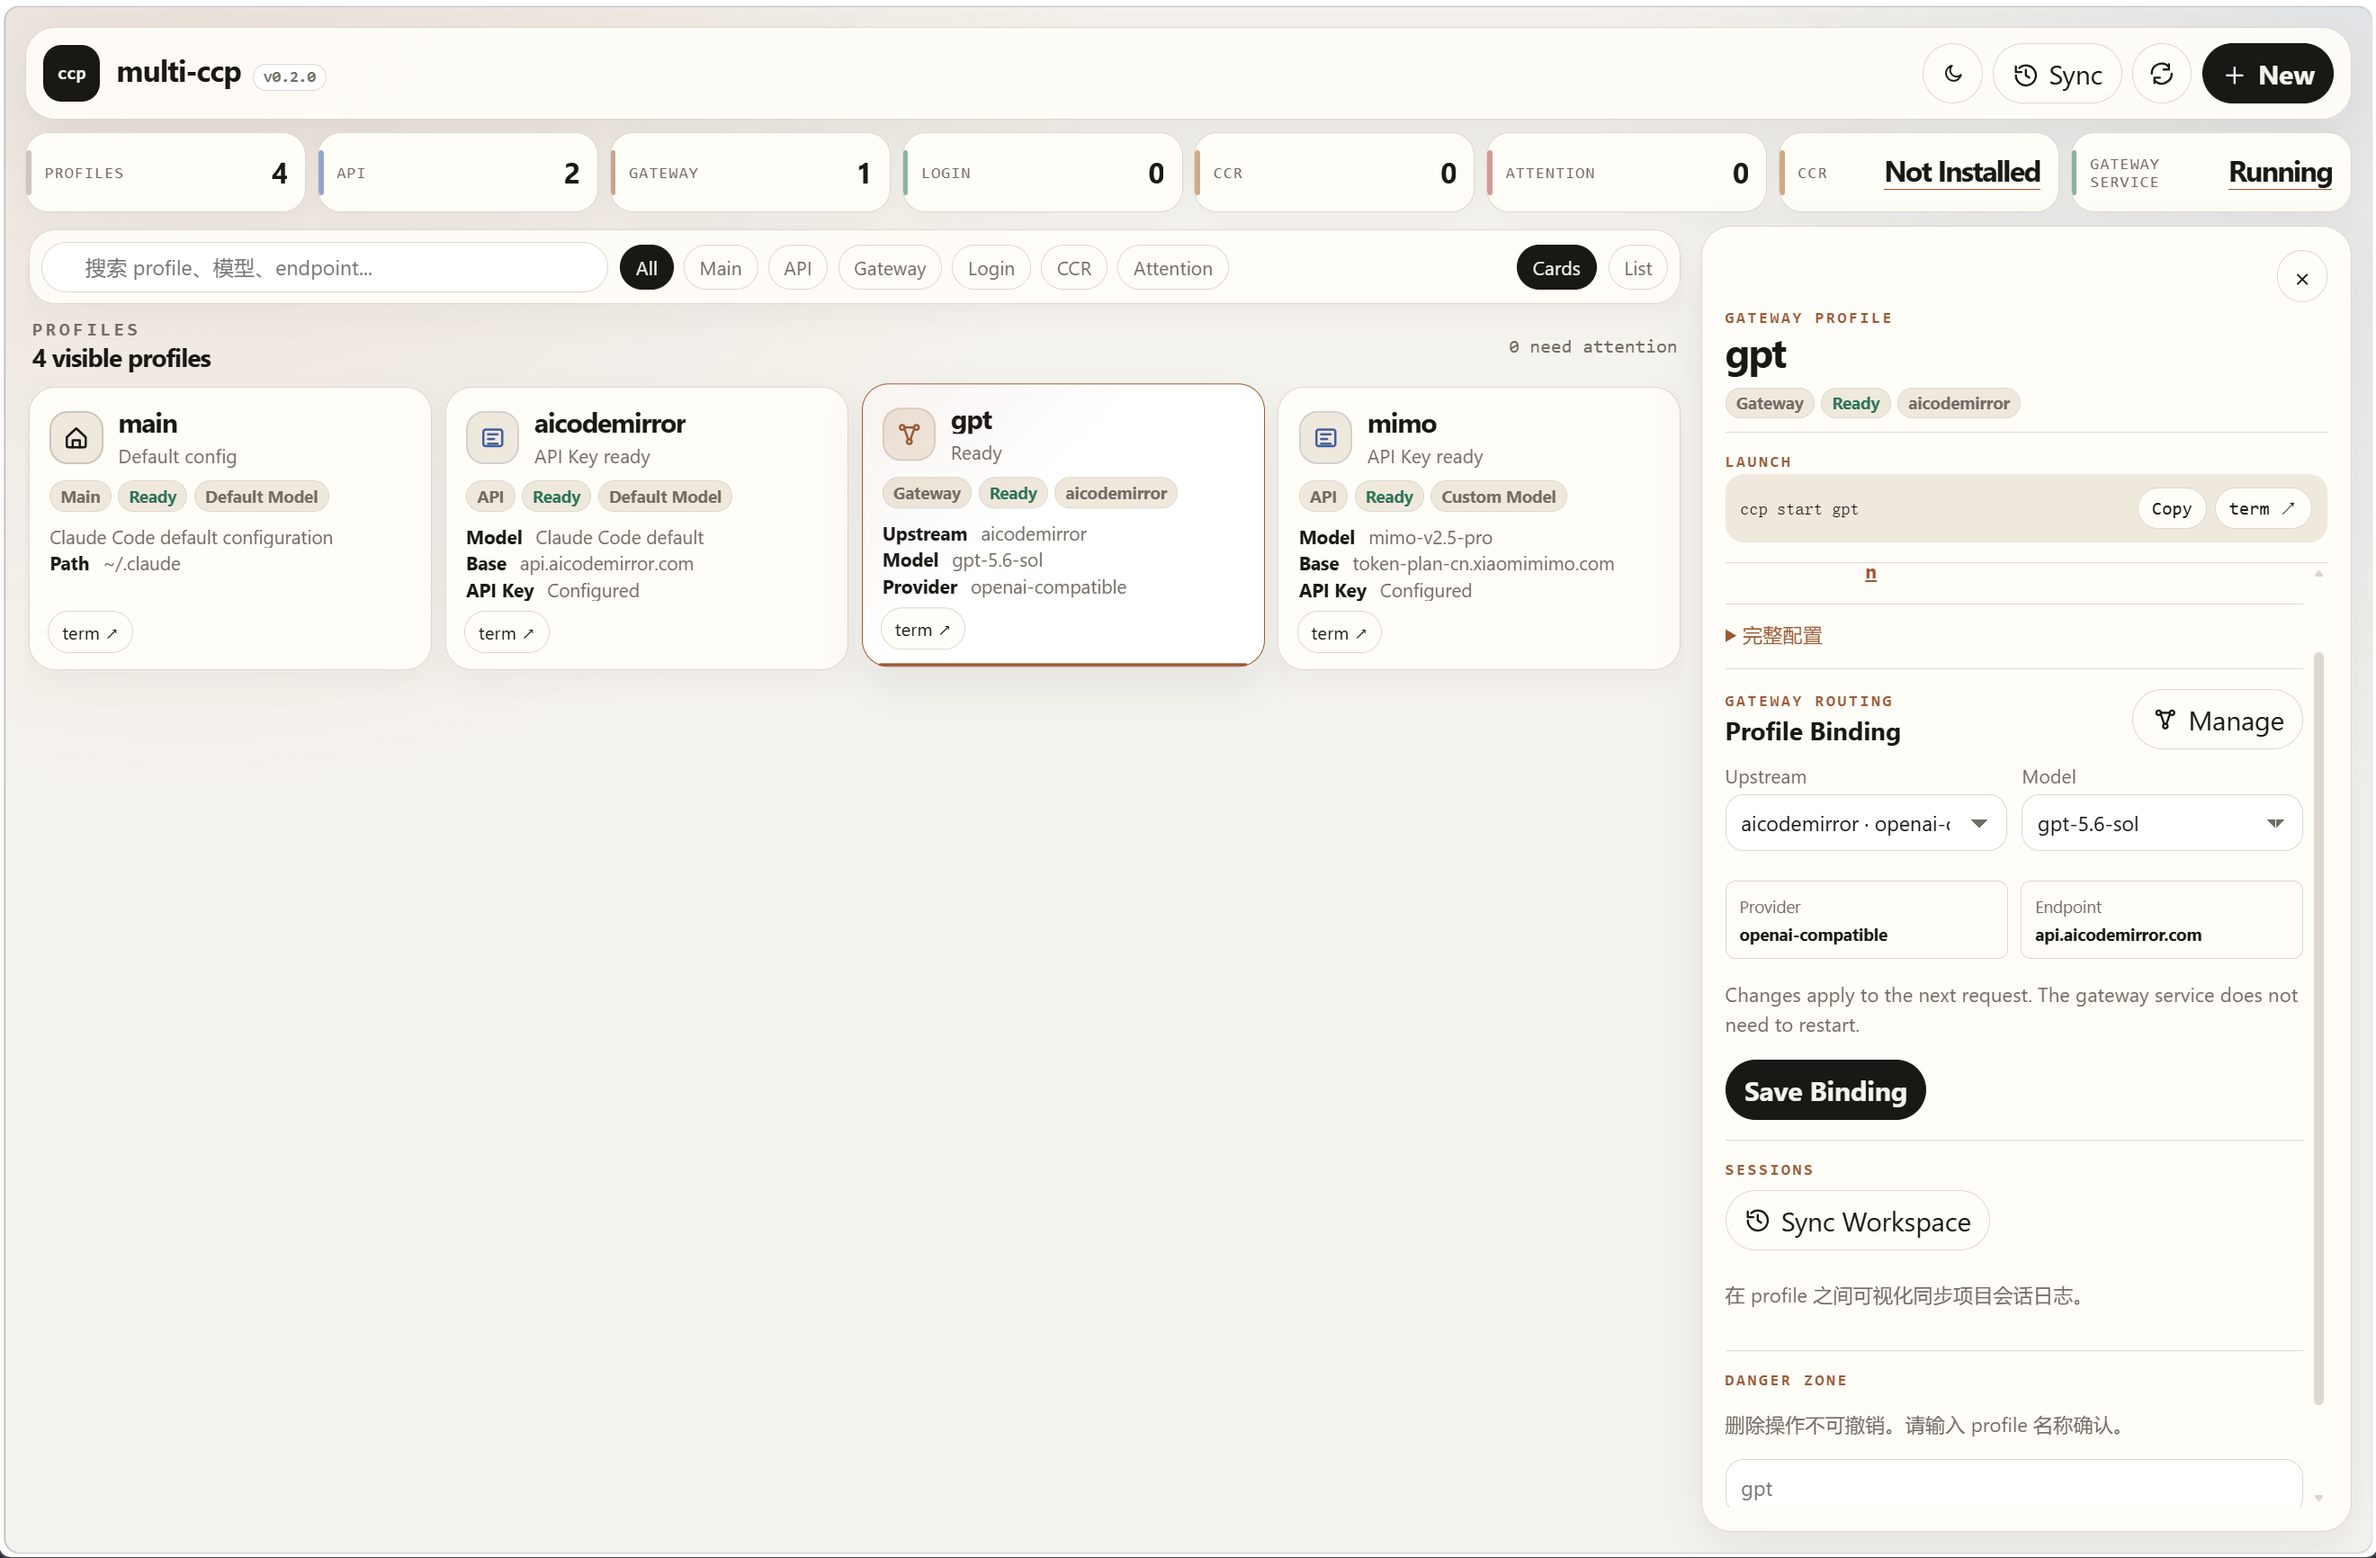
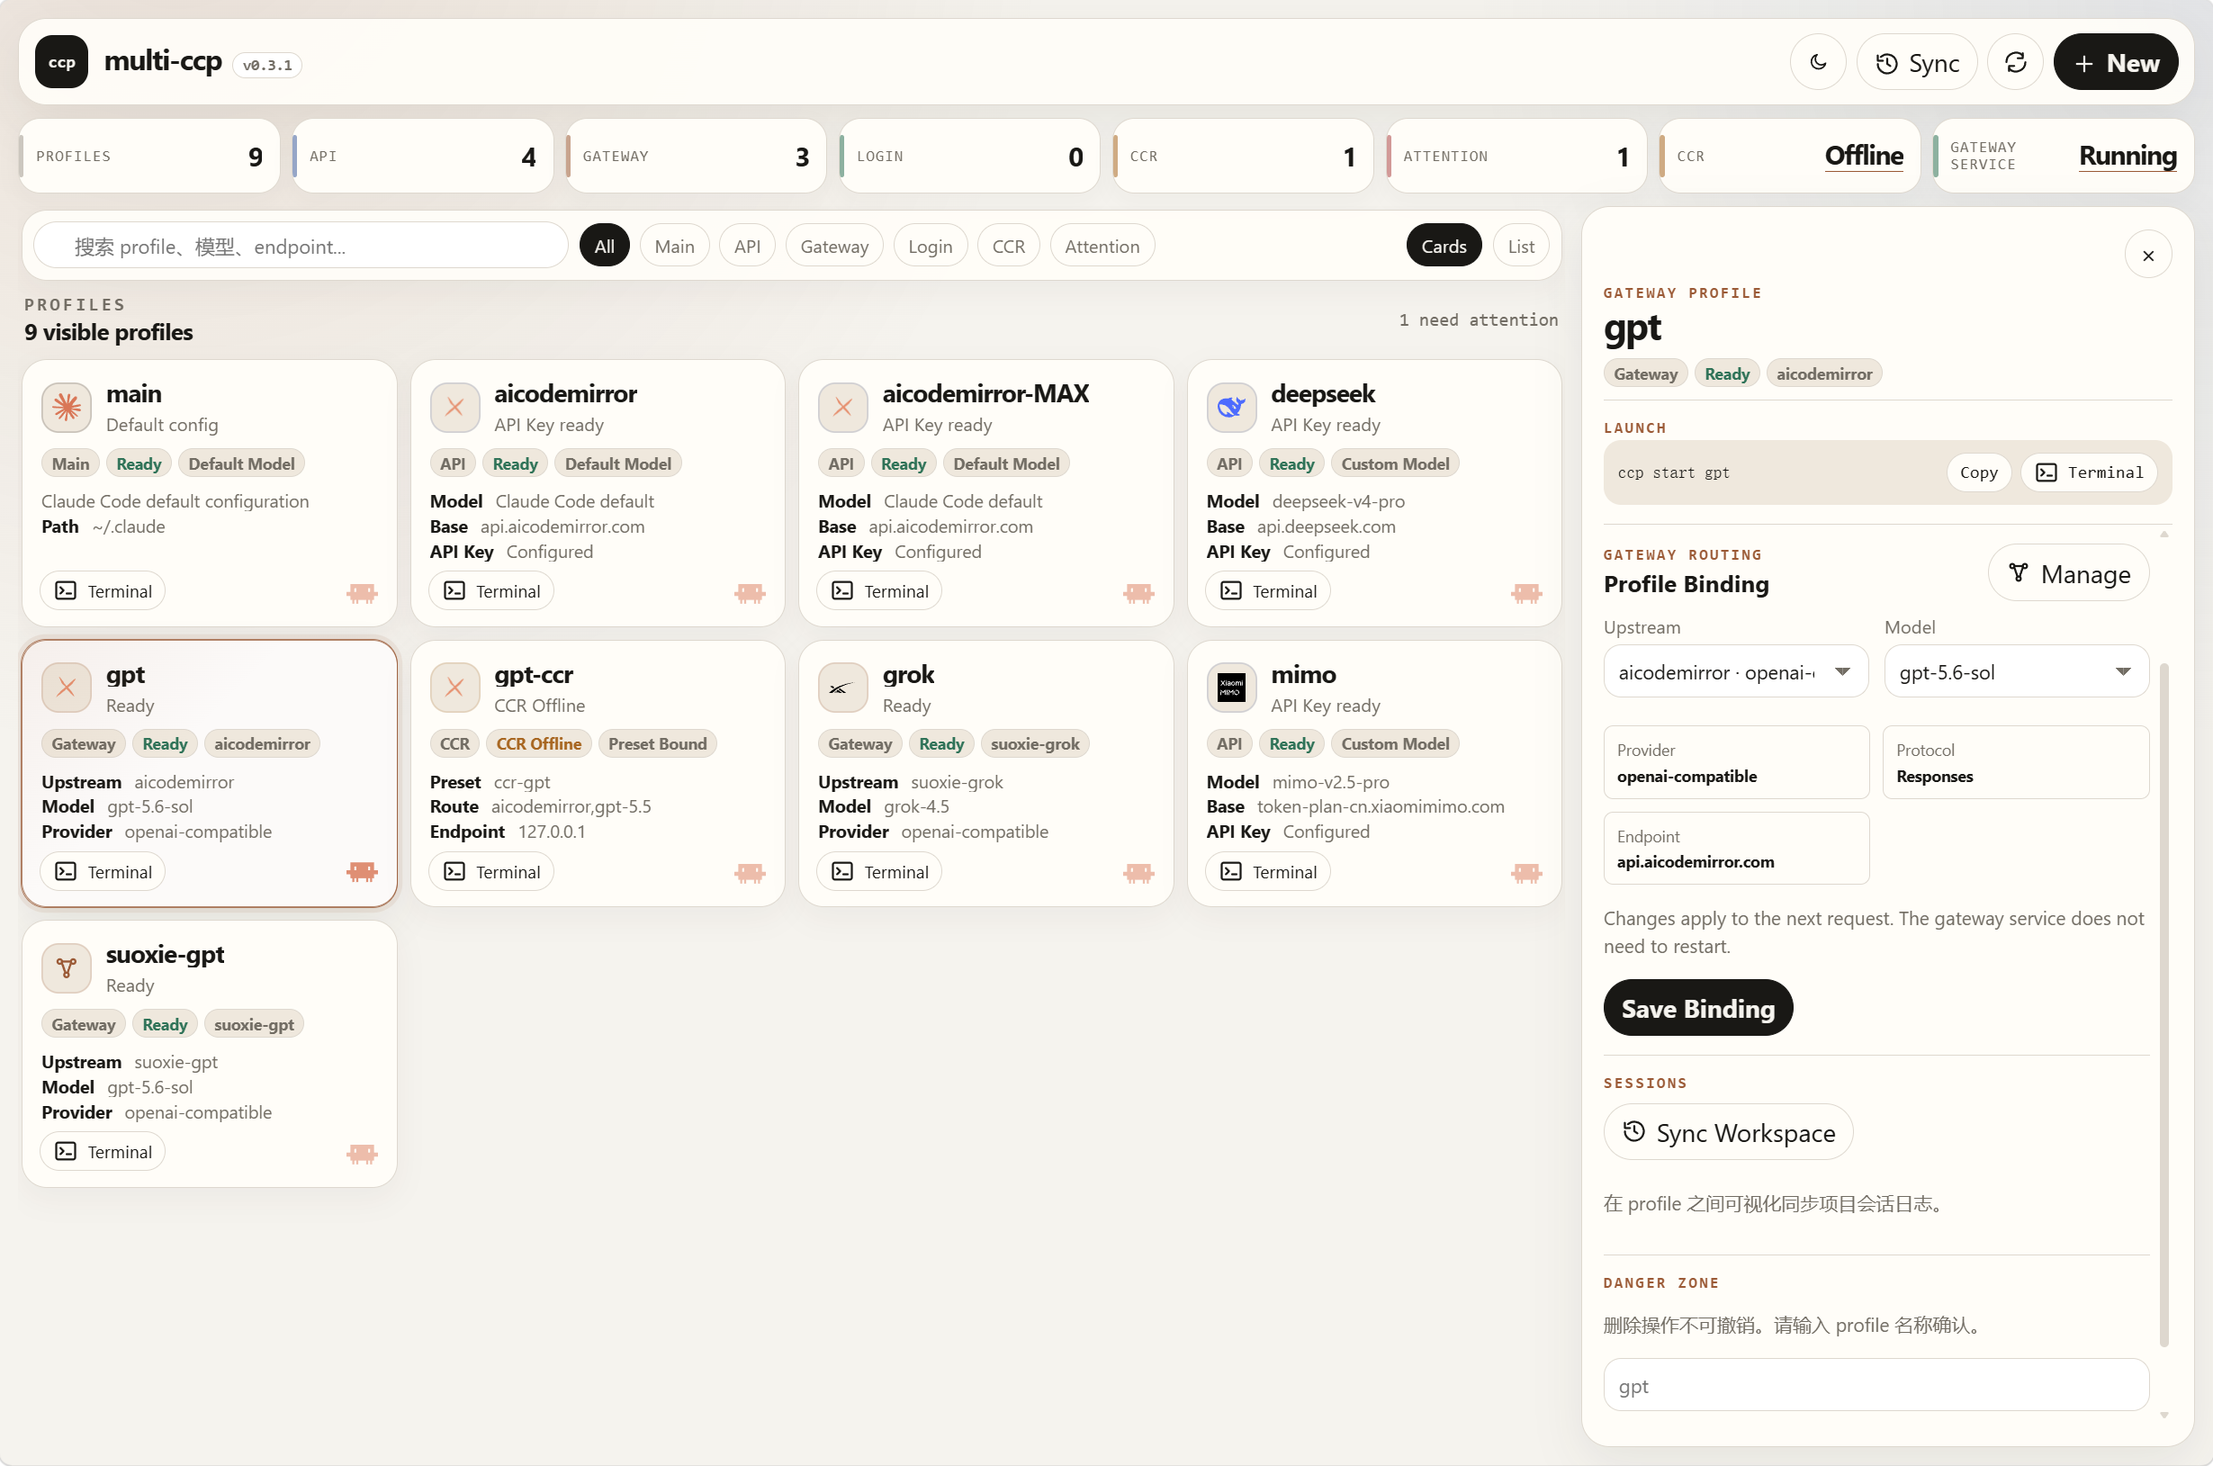
docs: md

diff --git a/README.md b/README.md
@@ -9,7 +9,7 @@ English | [简体中文](README.zh-CN.md)
 `multi-ccp` is a profile and session manager for Claude Code. It installs the `ccp` command and helps you run multiple Claude Code windows with fully isolated configuration directories, model providers, login state, and history.
 
 Use it when you want separate Claude Code sessions for work, personal projects, different API providers, or different model routes without manually switching environment variables or editing config files.
-
+![multi-ccp](docs/images/cli-ui.png)
 ![multi-ccp](docs/images/image.png)
 
 ## Features
@@ -23,7 +23,6 @@ Use it when you want separate Claude Code sessions for work, personal projects, 
 - Use the built-in gateway to run Claude Code against OpenAI or OpenAI-compatible Responses and Chat Completions providers.
 - Run multiple gateway profiles concurrently through one local process while keeping upstream URLs, models, credentials, tools, streams, and cancellation state isolated per request.
 - Sync historical Claude Code sessions between profiles or between `main` and a profile.
-- Open and inspect profile settings quickly from the terminal.
 
 ## Install
 
@@ -41,7 +40,7 @@ ccp help
 Update `multi-ccp`:
 
 ```bash
-npm update -g multi-ccp
+npm install -g multi-ccp@latest
 ```
 
 ## Quick Start
@@ -49,7 +48,7 @@ npm update -g multi-ccp
 Want the shortest path? Ask your AI assistant how to use `multi-ccp`. Copy this prompt:
 
 ```text
-How do I use multi-ccp to manage multiple Claude Code profiles?
+How do I use multi-ccp to manage multiple Claude Code profiles? Refer to the README: https://github.com/ASouthernCat/multi-ccp.
 ```
 
 Then continue with the examples below when you want the full command reference.
@@ -61,8 +60,6 @@ ccp ui
 ```
 
 The Web UI is a local companion for the CLI. It helps you inspect profiles, create preset-based profiles, edit profile settings, manage the shared gateway service and reusable upstreams, switch profile models, inspect redacted request logs, and open CCR management shortcuts.
-
-![multi-ccp](docs/images/cli-ui.png)
 
 Create a profile interactively:
 

diff --git a/README.zh-CN.md b/README.zh-CN.md
@@ -9,7 +9,7 @@
 `multi-ccp` 是一个 Claude Code profile 和历史会话管理工具。它会安装 `ccp` 命令，帮助你运行多个 Claude Code 会话窗口，并让每个窗口拥有独立隔离的配置目录、模型 provider、登录状态和历史记录。
 
 当你希望为工作、个人项目、不同 API provider、不同模型路由分别使用独立 Claude Code 会话时，可以使用 `multi-ccp`，无需手动切换环境变量或反复编辑配置文件。
-
+![multi-ccp](docs/images/cli-ui.png)
 ![multi-ccp](docs/images/image.png)
 
 ## 功能特性
@@ -23,7 +23,6 @@
 - 使用内置网关让 Claude Code 连接 OpenAI 或 OpenAI-compatible Responses / Chat Completions provider。
 - 多个 gateway profile 可以并发复用一个本地进程，同时按请求隔离上游 URL、模型、凭据、工具映射、流状态和取消信号。
 - 在不同 profile 之间，或在 `main` 与 profile 之间同步 Claude Code 历史会话。
-- 快速查看、打开和编辑 profile 配置。
 
 ## 安装
 
@@ -41,7 +40,7 @@ ccp help
 更新 `multi-ccp`：
 
 ```bash
-npm update -g multi-ccp
+npm install -g multi-ccp@latest
 ```
 
 ## 快速开始
@@ -49,7 +48,7 @@ npm update -g multi-ccp
 想走最短路径？可以先问 AI 如何使用 `multi-ccp`。复制这句提示词：
 
 ```text
-How do I use multi-ccp to manage multiple Claude Code profiles?
+How do I use multi-ccp to manage multiple Claude Code profiles? Refer to the README: https://github.com/ASouthernCat/multi-ccp.
 ```
 
 如果你想查看完整命令说明，可以继续阅读下面的示例。
@@ -61,8 +60,6 @@ ccp ui
 ```
 
 Web UI 是 CLI 的本地辅助界面，可用于查看 Profile、基于预设创建 Profile、编辑配置、管理共享网关服务与可复用 Upstream、实时切换模型、查看脱敏请求日志，以及打开 CCR 管理入口。
-
-![multi-ccp](docs/images/cli-ui.png)
 
 交互式创建一个 profile：
 
